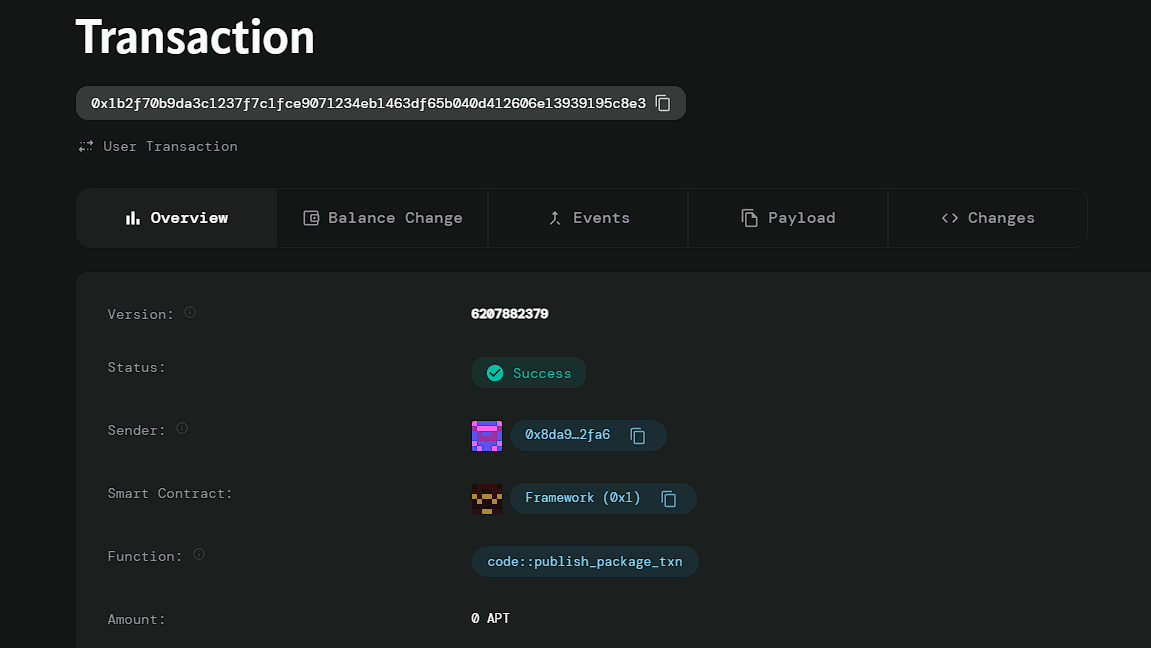
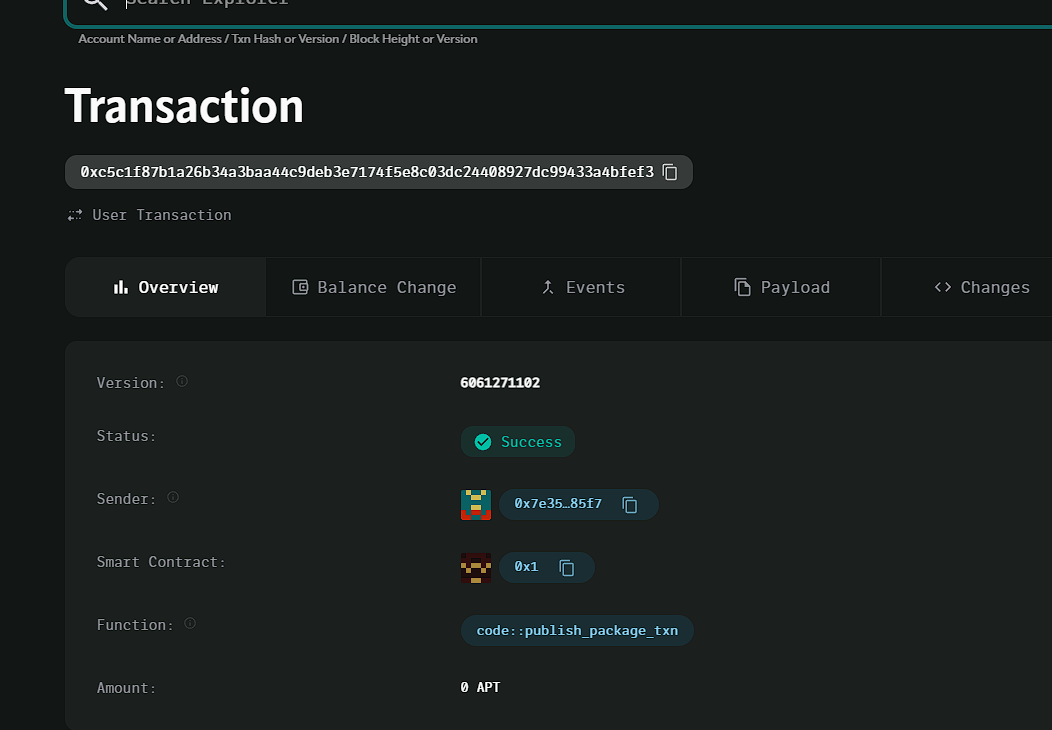
Add files via upload

diff --git a/Readme.md b/Readme.md
@@ -1,16 +1,21 @@
-# Loyalty Points Program
+### Deployed smartcontract address: 0xc5c1f87b1a26b34a3baa44c9deb3e7174f5e8c03dc24408927dc99433a4bfef3
 
-# Deployed ID: 0x1b2f70b9da3c1237f7c1fce9071234eb1463df65b040d412606e13939195c8e3
-![alt text](image.png)
+### Screenshot: ![alt text](image.png)
+
+# Tokenized Rewards Platform
 
 ## Project Description
-The Loyalty Points Program is a blockchain-based reward system designed to allow businesses to issue loyalty points as tokens to customers for their purchases. This system enables customers to redeem these tokens for discounts or special offers, ensuring transparent tracking of points.
+The Tokenized Rewards Platform allows users to earn tokens by completing certain actions, such as engaging with content or achieving milestones. The system tracks rewards and deposits them into user accounts.
 
-## Project Vision
-Our vision is to enhance customer engagement and retention through a decentralized loyalty points system. By leveraging blockchain technology, we aim to provide a secure and transparent way for customers to earn and redeem loyalty points, fostering loyalty across partnered businesses.
+## Vision
+To provide an engaging and decentralized platform where users are incentivized to participate in various actions and are rewarded with tokens that have real value within the ecosystem.
 
 ## Key Features
-- **Issuance of Loyalty Points**: Businesses can issue points to customers based on their purchases.
-- **Redemption Mechanism**: Customers can redeem loyalty points for discounts or special offers.
-- **Transparent Tracking**: The system provides a transparent way to track points earned and redeemed.
-- **Cross-Business Compatibility**: Points can be used across partnered businesses, enhancing customer options.
+- **Tokenized Rewards**: Users earn tokens for completing tasks or achieving milestones.
+- **Reward Tracking**: Keeps track of the total rewards accumulated by a user.
+- **Easy Integration**: Simple contract functions to reward and track users.
+
+## Future Scope
+- **Milestone-Based Rewards**: Integrate specific milestones where users can earn higher rewards.
+- **Engagement Tracking**: Implement more sophisticated methods to track user engagement.
+- **Reward Redemption**: Allow users to redeem their rewards for goods or services.
